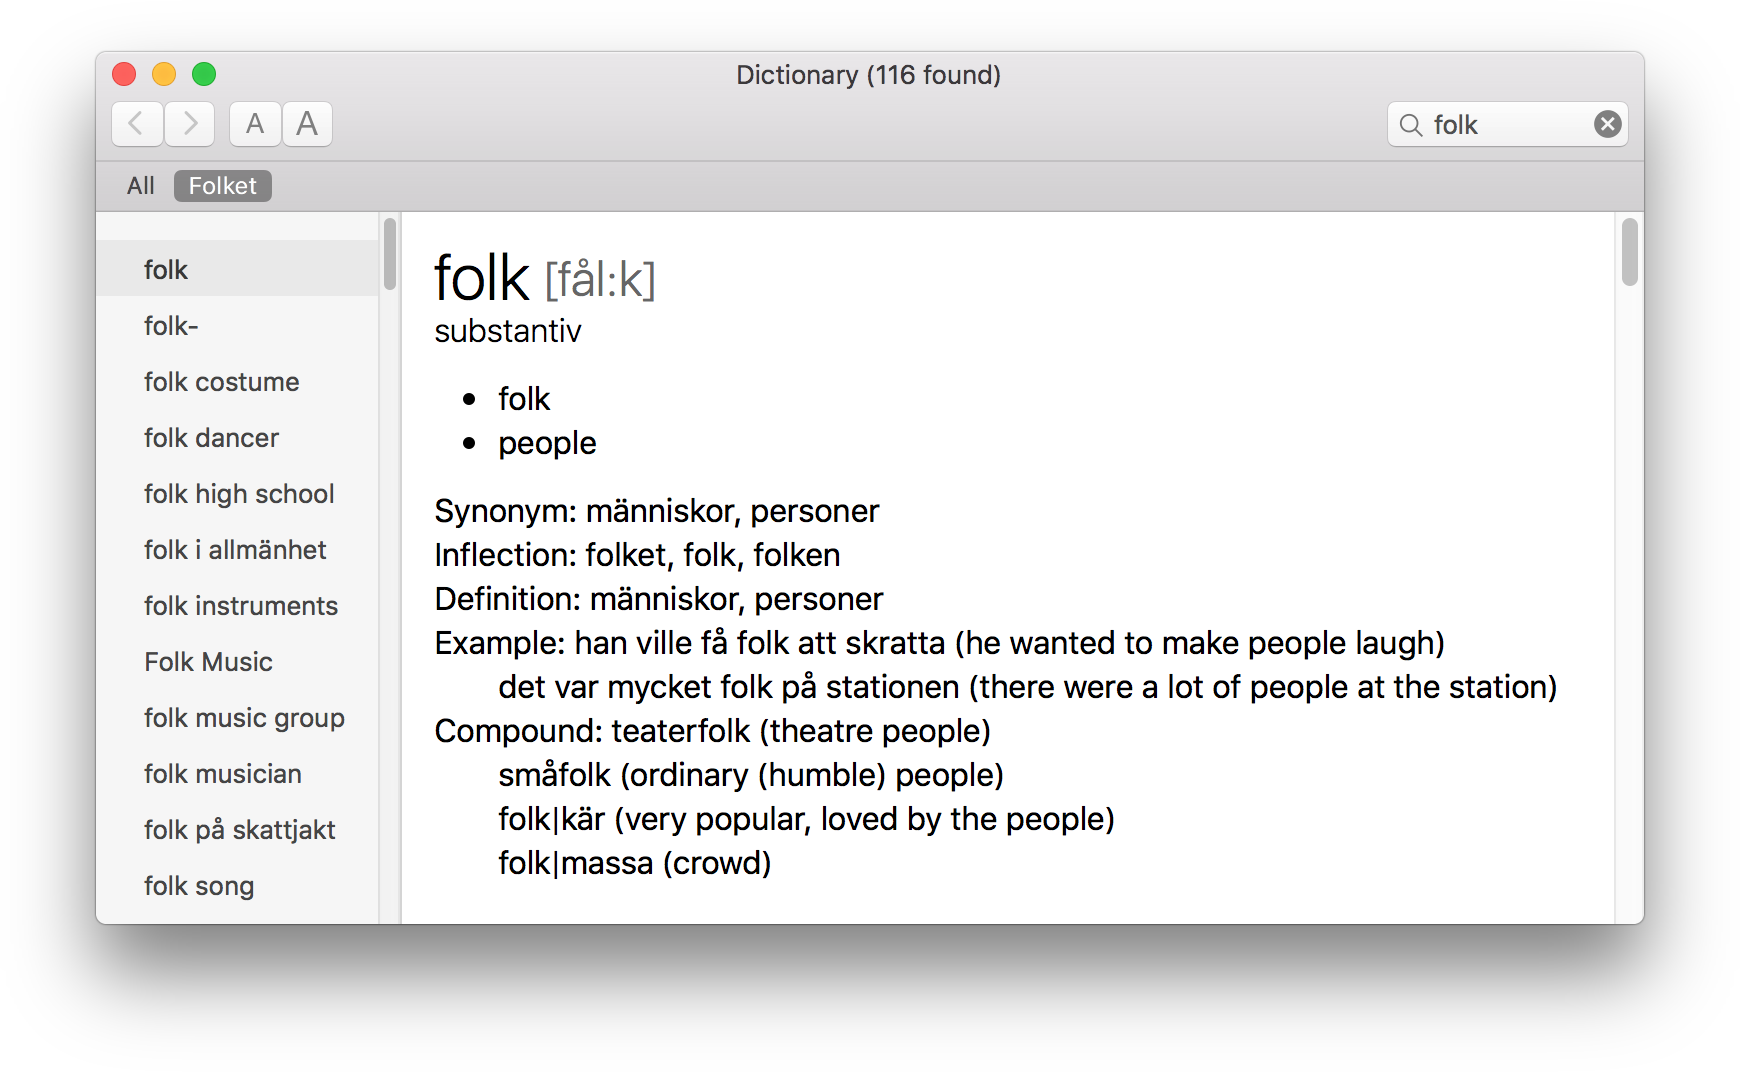
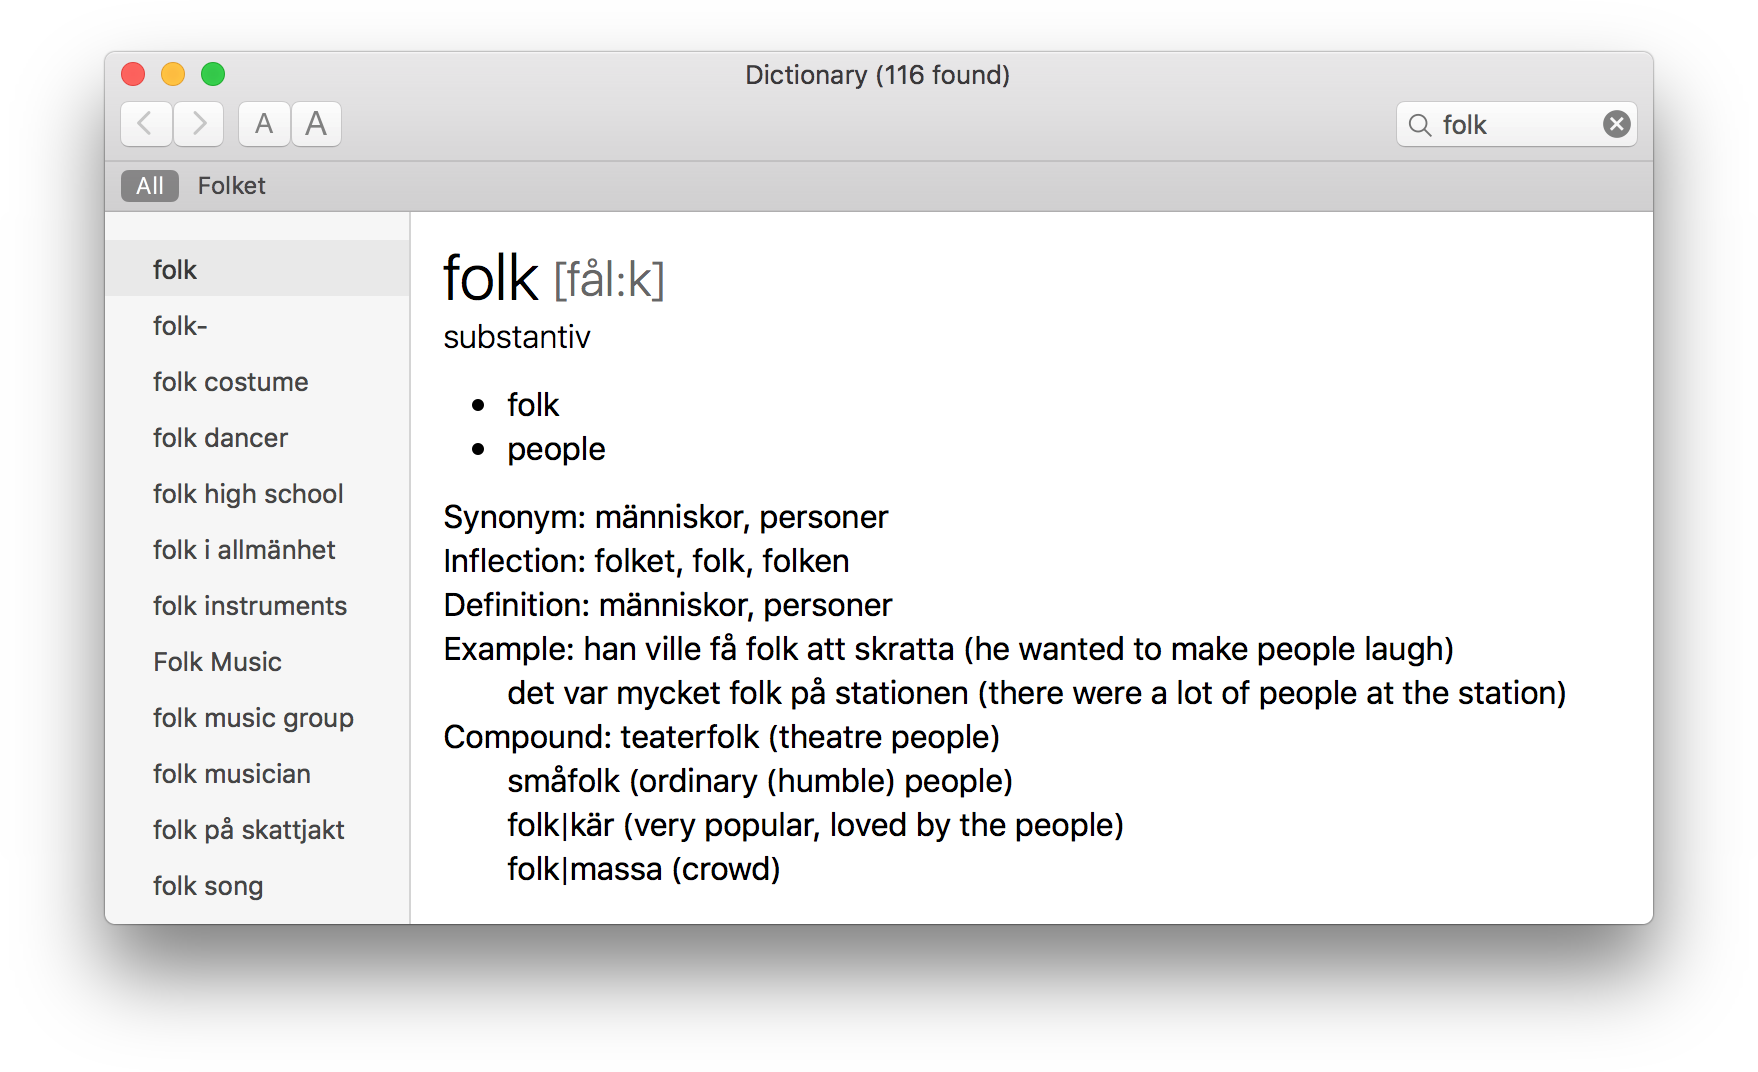
Fix the wiggling Part of Speech

diff --git a/dictionary.css b/dictionary.css
@@ -4,8 +4,7 @@
 * {
   font-size: inherit;
   font-weight: inherit;
-  line-height: 1em;
-
+  line-height: inherit;
   border: 0;
   margin: 0;
   padding: 0;
@@ -14,7 +13,7 @@
 body {
   font-family: -apple-system, 'Helvetica Neue', sans-serif;
   font-size: 16px;
-
+  line-height: 1em;
   padding: 1em;
 }
 
@@ -26,15 +25,14 @@ body {
 h1 {
   font-size: 200%;
   font-weight: 300;
+  line-height: 1em;
 }
 
 .pronunciation {
   position: relative;
   top: -0.075em;
-
   color: #666;
   font-size: 75%;
-
   margin-left: 0.25em;
 }
 
@@ -47,17 +45,15 @@ h1 {
 }
 
 .part-of-speech {
-  font-size: 50%;
-  line-height: 1.4em;
-
-  display: block;
+  font-weight: 300;
+  margin-bottom: 0.75em;
 }
 
-ul {
+.translations {
   margin: 0.75em 0 0.75em 2em;
 }
 
-p, li, .element {
+p, .translations li, .part-of-speech, .element {
   line-height: 1.4em;
 }
 
